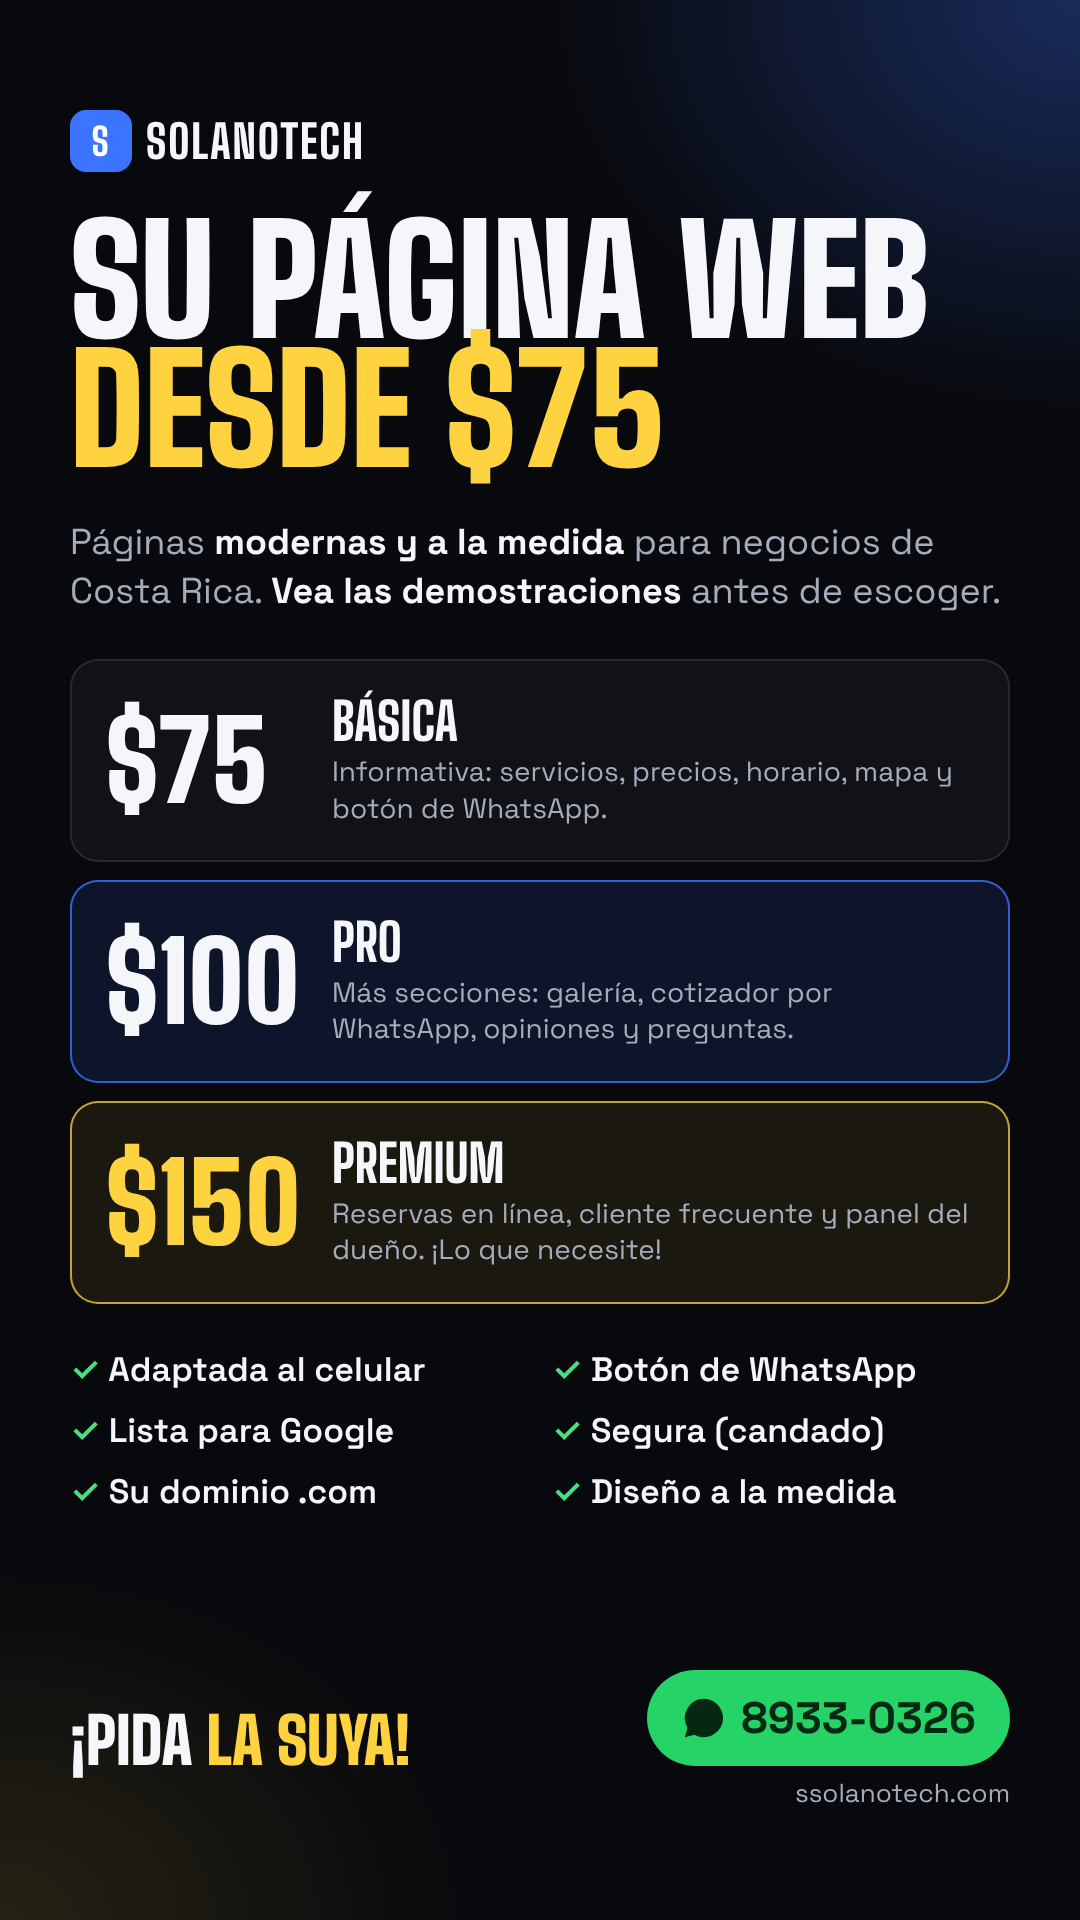
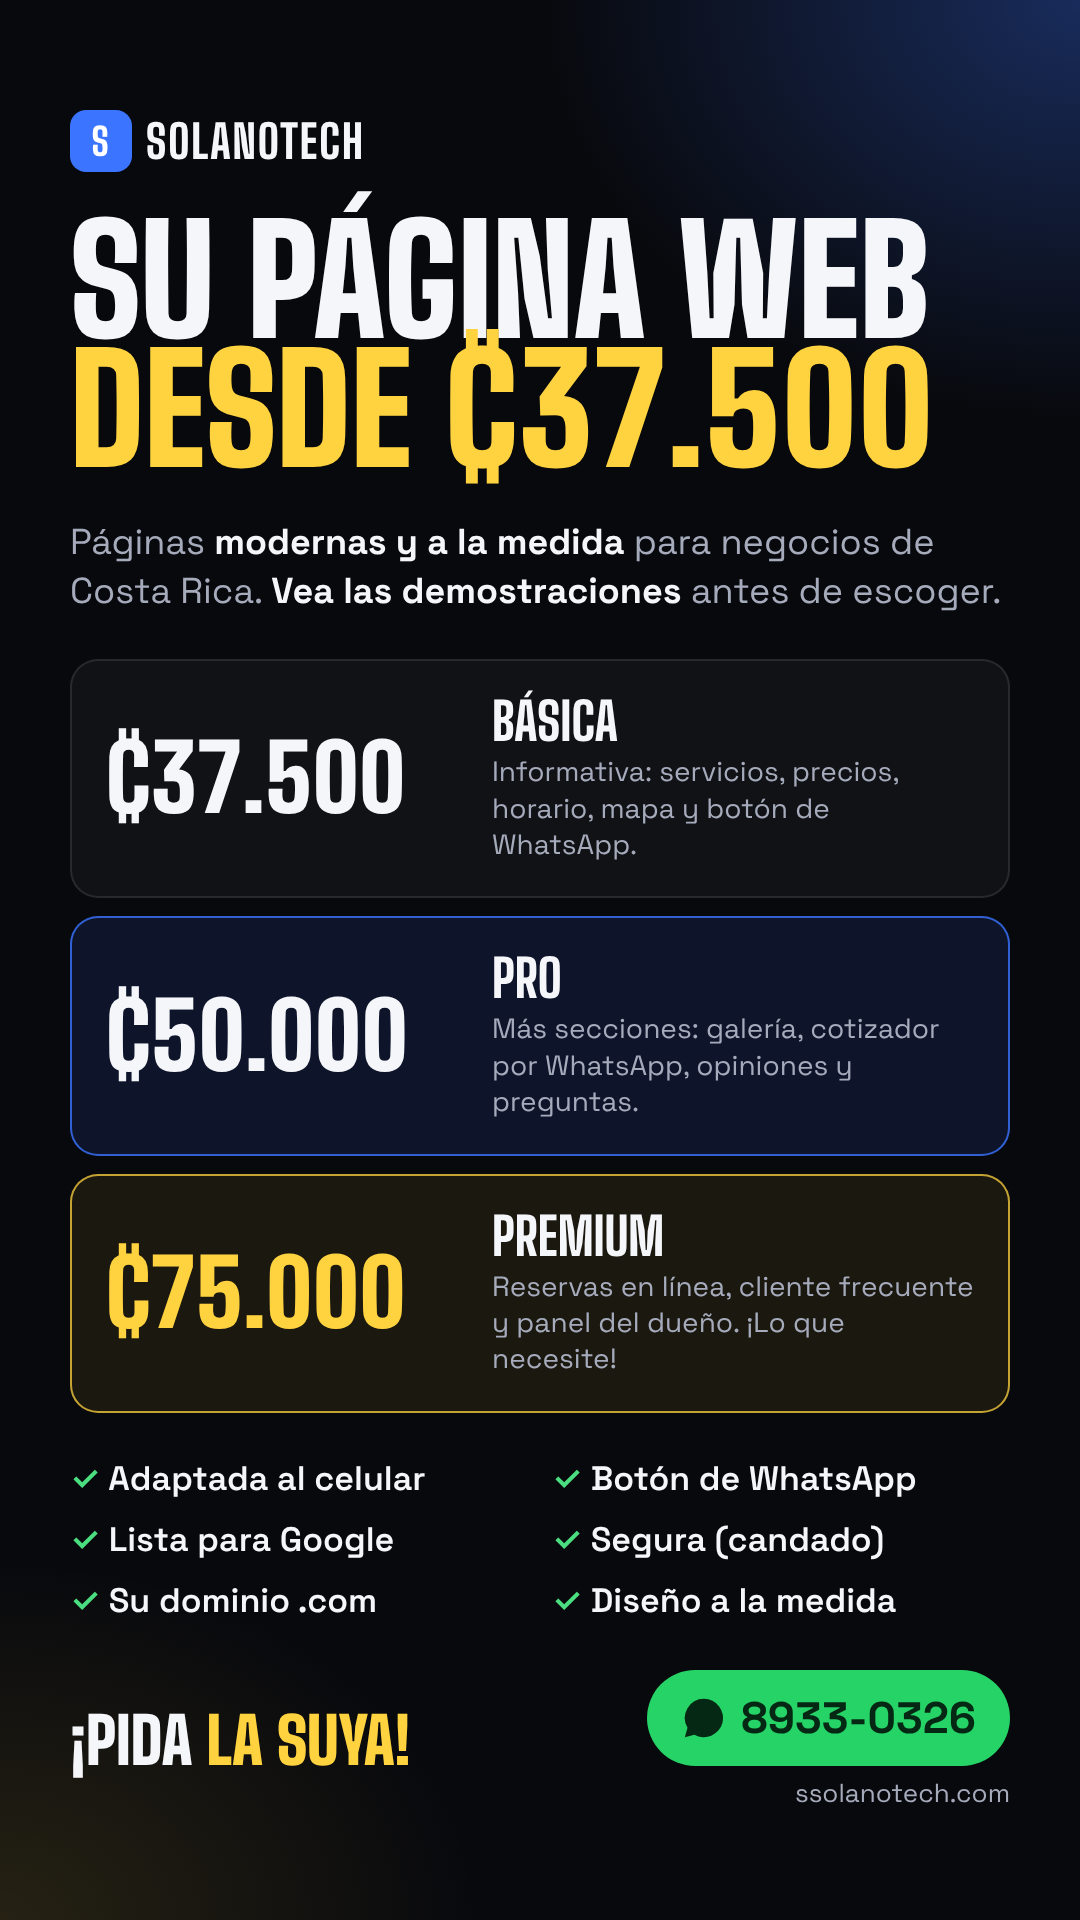
Solanotech planes: precios en colones (₡37.500, ₡50.000, ₡75.000)
Claude-Session: https://claude.ai/code/session_01XyaXnffiHNGSgLBRVYYTi9

Changed region(s): [[0.0611, 0.3438, 0.9472, 0.8438], [0.3972, 0.1562, 0.8861, 0.25]]

diff --git a/solanotech/planes/public/index.html b/solanotech/planes/public/index.html
@@ -4,9 +4,9 @@
 <meta charset="utf-8">
 <meta name="viewport" content="width=device-width, initial-scale=1">
 <title>Planes de páginas web · Solanotech</title>
-<meta name="description" content="Páginas web para negocios de Costa Rica desde $75: informativa, Pro y Premium con reservas en línea. Vea las demostraciones.">
-<meta property="og:title" content="Su página web desde $75 · Solanotech">
-<meta property="og:description" content="Informativa $75 · Pro $100 · Premium $150. Vea las demostraciones y pida la suya por WhatsApp.">
+<meta name="description" content="Páginas web para negocios de Costa Rica desde ₡37.500: informativa, Pro y Premium con reservas en línea. Vea las demostraciones.">
+<meta property="og:title" content="Su página web desde ₡37.500 · Solanotech">
+<meta property="og:description" content="Informativa ₡37.500 · Pro ₡50.000 · Premium ₡75.000. Vea las demostraciones y pida la suya por WhatsApp.">
 <link rel="preconnect" href="https://fonts.googleapis.com"><link rel="preconnect" href="https://fonts.gstatic.com" crossorigin>
 <link rel="stylesheet" href="https://fonts.googleapis.com/css2?family=Big+Shoulders+Display:wght@700;800;900&family=Space+Grotesk:wght@400;500;600;700&display=swap">
 <link rel="stylesheet" href="comun.css">
@@ -69,7 +69,7 @@ footer .wrap{display:flex;justify-content:space-between;gap:16px;flex-wrap:wrap;
 <section class="wrap planes" id="planes">
   <article class="plan">
     <h2>Básica</h2><p class="para">Para que lo encuentren y le escriban.</p>
-    <div class="precio"><b>$75</b><small>pago único</small></div>
+    <div class="precio"><b>₡37.500</b><small>pago único</small></div>
     <ul>
       <li>Página de una sola sección, informativa</li>
       <li>Su logo, colores, servicios y precios</li>
@@ -78,12 +78,12 @@ footer .wrap{display:flex;justify-content:space-between;gap:16px;flex-wrap:wrap;
       <li>Adaptada al celular</li>
       <li>Lista para aparecer en Google</li>
     </ul>
-    <div class="acc"><a class="btn btn-a" href="demo-basica.html">👀 Ver demostración</a><a class="btn btn-b" href="https://wa.me/50689330326?text=Hola%20Solanotech%2C%20me%20interesa%20la%20p%C3%A1gina%20B%C3%A1sica%20de%20%2475" target="_blank" rel="noopener">Pedir la Básica</a></div>
+    <div class="acc"><a class="btn btn-a" href="demo-basica.html">👀 Ver demostración</a><a class="btn btn-b" href="https://wa.me/50689330326?text=Hola%20Solanotech%2C%20me%20interesa%20la%20p%C3%A1gina%20B%C3%A1sica%20de%20%E2%82%A137.500" target="_blank" rel="noopener">Pedir la Básica</a></div>
   </article>
   <article class="plan dest">
     <span class="etq">La más pedida</span>
     <h2>Pro</h2><p class="para">Más secciones, más botones y más ventas.</p>
-    <div class="precio"><b>$100</b><small>pago único</small></div>
+    <div class="precio"><b>₡50.000</b><small>pago único</small></div>
     <ul>
       <li>Todo lo de la Básica</li>
       <li class="mas">Varias secciones: servicios, trabajos, opiniones, preguntas</li>
@@ -93,12 +93,12 @@ footer .wrap{display:flex;justify-content:space-between;gap:16px;flex-wrap:wrap;
       <li class="mas">Animaciones y diseño más trabajado</li>
       <li class="mas">QR para reseñas de Google</li>
     </ul>
-    <div class="acc"><a class="btn btn-a" href="demo-pro.html">👀 Ver demostración</a><a class="btn btn-b" href="https://wa.me/50689330326?text=Hola%20Solanotech%2C%20me%20interesa%20la%20p%C3%A1gina%20Pro%20de%20%24100" target="_blank" rel="noopener">Pedir la Pro</a></div>
+    <div class="acc"><a class="btn btn-a" href="demo-pro.html">👀 Ver demostración</a><a class="btn btn-b" href="https://wa.me/50689330326?text=Hola%20Solanotech%2C%20me%20interesa%20la%20p%C3%A1gina%20Pro%20de%20%E2%82%A150.000" target="_blank" rel="noopener">Pedir la Pro</a></div>
   </article>
   <article class="plan prem">
     <span class="etq">Premium</span>
     <h2>Premium</h2><p class="para">Su negocio funcionando solo en internet.</p>
-    <div class="precio"><b>$150</b><small>pago único</small></div>
+    <div class="precio"><b>₡75.000</b><small>pago único</small></div>
     <ul>
       <li>Todo lo de la Pro</li>
       <li class="mas">Reservas en línea con horario real</li>
@@ -107,7 +107,7 @@ footer .wrap{display:flex;justify-content:space-between;gap:16px;flex-wrap:wrap;
       <li class="mas">Recordatorios de citas</li>
       <li class="mas">Lo que su negocio necesite: si se puede programar, se hace</li>
     </ul>
-    <div class="acc"><a class="btn btn-a" href="demo-premium.html">👀 Ver demostración</a><a class="btn btn-b" href="https://wa.me/50689330326?text=Hola%20Solanotech%2C%20me%20interesa%20la%20p%C3%A1gina%20Premium%20de%20%24150" target="_blank" rel="noopener">Pedir la Premium</a></div>
+    <div class="acc"><a class="btn btn-a" href="demo-premium.html">👀 Ver demostración</a><a class="btn btn-b" href="https://wa.me/50689330326?text=Hola%20Solanotech%2C%20me%20interesa%20la%20p%C3%A1gina%20Premium%20de%20%E2%82%A175.000" target="_blank" rel="noopener">Pedir la Premium</a></div>
   </article>
 </section>
 
@@ -132,7 +132,7 @@ footer .wrap{display:flex;justify-content:space-between;gap:16px;flex-wrap:wrap;
 <section class="wrap">
   <h2 class="notas-t">Bueno saber</h2>
   <div class="notas">
-    <div><b>🌐 Su propio dominio</b><p>Su página puede quedar en <strong>sunegocio.com</strong>. El dominio se paga aparte, cuesta unos $10–15 al año y le ayudamos a comprarlo y conectarlo.</p></div>
+    <div><b>🌐 Su propio dominio</b><p>Su página puede quedar en <strong>sunegocio.com</strong>. El dominio se paga aparte, cuesta unos ₡5.000 a ₡7.500 al año y le ayudamos a comprarlo y conectarlo.</p></div>
     <div><b>🔍 Aparecer en Google</b><p>La dejamos lista para Google y le ayudamos con su perfil de Google Maps para que lo encuentren cerca.</p></div>
     <div><b>🔒 Segura y rápida</b><p>Conexión segura (candado), protección contra ataques y carga rápida en el celular.</p></div>
   </div>

diff --git a/solanotech/promos/planes/promo-planes.html b/solanotech/promos/planes/promo-planes.html
@@ -11,10 +11,10 @@ h1{font-family:var(--t);font-weight:900;text-transform:uppercase;font-size:118px
 h1 span{color:var(--am)}
 .sub{font-size:31px;color:var(--gr);line-height:1.35}.sub b{color:var(--bl)}
 .planes{display:grid;gap:18px}
-.pl{display:grid;grid-template-columns:200px 1fr;align-items:center;gap:26px;padding:24px 30px;border-radius:28px;background:rgba(255,255,255,.04);border:2px solid rgba(255,255,255,.1)}
+.pl{display:grid;grid-template-columns:330px 1fr;align-items:center;gap:26px;padding:24px 30px;border-radius:28px;background:rgba(255,255,255,.04);border:2px solid rgba(255,255,255,.1)}
 .pl.pro{border-color:rgba(59,116,255,.8);background:rgba(59,116,255,.12)}
 .pl.pre{border-color:rgba(255,210,63,.75);background:rgba(255,210,63,.08)}
-.pl b{font-family:var(--t);font-weight:900;font-size:96px;line-height:.9}
+.pl b{font-family:var(--t);font-weight:900;font-size:84px;white-space:nowrap;line-height:.9}
 .pl.pre b{color:var(--am)}
 .pl h2{font-family:var(--t);font-weight:800;text-transform:uppercase;font-size:44px;line-height:1}
 .pl p{color:var(--gr);font-size:24px;margin-top:6px;line-height:1.3}
@@ -27,16 +27,16 @@ body.historia h1{font-size:150px}body.historia .pl{padding:34px 34px}body.histor
 .extra{display:none}
 body.historia .extra{display:grid;grid-template-columns:1fr 1fr;gap:18px 24px;font-size:34px;font-weight:600}
 body.historia .extra div::first-letter{color:#4ADE80}
-body.historia .pl b{font-size:110px}body.historia .pl h2{font-size:52px}body.historia .pl p{font-size:28px}
+body.historia .pl b{font-size:92px}body.historia .pl{grid-template-columns:360px 1fr}body.historia .pl h2{font-size:52px}body.historia .pl p{font-size:28px}
 </style></head>
 <body>
 <div class="logo"><i>S</i>SOLANOTECH</div>
-<h1>Su página web <span>desde $75</span></h1>
+<h1>Su página web <span>desde ₡37.500</span></h1>
 <p class="sub">Páginas <b>modernas y a la medida</b> para negocios de Costa Rica. <b>Vea las demostraciones</b> antes de escoger.</p>
 <div class="planes">
-  <div class="pl"><b>$75</b><div><h2>Básica</h2><p>Informativa: servicios, precios, horario, mapa y botón de WhatsApp.</p></div></div>
-  <div class="pl pro"><b>$100</b><div><h2>Pro</h2><p>Más secciones: galería, cotizador por WhatsApp, opiniones y preguntas.</p></div></div>
-  <div class="pl pre"><b>$150</b><div><h2>Premium</h2><p>Reservas en línea, cliente frecuente y panel del dueño. ¡Lo que necesite!</p></div></div>
+  <div class="pl"><b>₡37.500</b><div><h2>Básica</h2><p>Informativa: servicios, precios, horario, mapa y botón de WhatsApp.</p></div></div>
+  <div class="pl pro"><b>₡50.000</b><div><h2>Pro</h2><p>Más secciones: galería, cotizador por WhatsApp, opiniones y preguntas.</p></div></div>
+  <div class="pl pre"><b>₡75.000</b><div><h2>Premium</h2><p>Reservas en línea, cliente frecuente y panel del dueño. ¡Lo que necesite!</p></div></div>
 </div>
 <div class="extra"><div>✓ Adaptada al celular</div><div>✓ Botón de WhatsApp</div><div>✓ Lista para Google</div><div>✓ Segura (candado)</div><div>✓ Su dominio .com</div><div>✓ Diseño a la medida</div></div>
 <div class="pie"><div class="pida">¡Pida <span>la suya!</span></div><div><div class="wa"><svg viewBox="0 0 24 24" fill="#052814"><path d="M12 2a10 10 0 0 0-8.6 15.1L2 22l5-1.3A10 10 0 1 0 12 2Zm4.5 12.1c-.2-.1-1.5-.7-1.7-.8-.2-.1-.4-.1-.6.1l-.8 1c-.1.2-.3.2-.5.1a6.7 6.7 0 0 1-3.3-2.9c-.3-.4.3-.4.7-1.4.1-.2 0-.3 0-.4l-.8-1.8c-.2-.5-.4-.4-.6-.4h-.5a1 1 0 0 0-.7.3 3 3 0 0 0-.9 2.2 5.2 5.2 0 0 0 1.1 2.7 11.8 11.8 0 0 0 4.5 4c1.7.7 2.3.8 3.2.6a2.7 2.7 0 0 0 1.8-1.2c.2-.6.2-1 .1-1.2z"/></svg>8933-0326</div><div class="web">ssolanotech.com</div></div></div>

diff --git a/solanotech/planes/public/demo-pro.html b/solanotech/planes/public/demo-pro.html
@@ -74,7 +74,7 @@ footer{border-top:1px solid var(--linea);padding:26px 0 90px;color:var(--gr);fon
 </style>
 </head>
 <body>
-<div class="cinta"><div class="wrap"><a class="logo-s" href="index.html"><i>S</i>SOLANOTECH</a><span class="txt">Demostración del <b>Plan Pro · $100</b> · negocio de ejemplo</span><a href="index.html">Ver planes</a></div></div>
+<div class="cinta"><div class="wrap"><a class="logo-s" href="index.html"><i>S</i>SOLANOTECH</a><span class="txt">Demostración del <b>Plan Pro · ₡50.000</b> · negocio de ejemplo</span><a href="index.html">Ver planes</a></div></div>
 <nav><div class="wrap"><a class="marca" href="#">Motor<span>Pro</span></a><div class="links"><a href="#servicios">Servicios</a><a href="#cotizar">Cotizar</a><a href="#trabajos">Trabajos</a><a href="#opiniones">Opiniones</a><a href="#preguntas">Preguntas</a></div><a class="btn btn-wa" href="https://wa.me/50689330326?text=Hola%2C%20vi%20la%20demo%20Pro%20(taller)%20y%20quiero%20una%20as%C3%AD" target="_blank" rel="noopener">WhatsApp</a></div></nav>
 
 <div class="wrap">
@@ -146,7 +146,7 @@ footer{border-top:1px solid var(--linea);padding:26px 0 90px;color:var(--gr);fon
   </section>
 </div>
 <div class="visor" id="visor" role="dialog" aria-label="Foto ampliada"><div><div id="visorIco"></div><p id="visorTxt"></p></div></div>
-<footer>Motor Pro es un negocio de ejemplo · Página hecha por <b>Solanotech</b> · Plan Pro $100</footer>
+<footer>Motor Pro es un negocio de ejemplo · Página hecha por <b>Solanotech</b> · Plan Pro ₡50.000</footer>
 <a class="flota" href="https://wa.me/50689330326?text=Hola%2C%20vi%20la%20demo%20Pro%20y%20quiero%20una%20p%C3%A1gina%20as%C3%AD" target="_blank" rel="noopener" aria-label="WhatsApp"><svg viewBox="0 0 24 24" fill="#fff"><path d="M12 2a10 10 0 0 0-8.6 15.1L2 22l5-1.3A10 10 0 1 0 12 2Zm4.5 12.1c-.2-.1-1.5-.7-1.7-.8-.2-.1-.4-.1-.6.1l-.8 1c-.1.2-.3.2-.5.1a6.7 6.7 0 0 1-3.3-2.9c-.3-.4.3-.4.7-1.4.1-.2 0-.3 0-.4l-.8-1.8c-.2-.5-.4-.4-.6-.4h-.5a1 1 0 0 0-.7.3 3 3 0 0 0-.9 2.2 5.2 5.2 0 0 0 1.1 2.7 11.8 11.8 0 0 0 4.5 4c1.7.7 2.3.8 3.2.6a2.7 2.7 0 0 0 1.8-1.2c.2-.6.2-1 .1-1.2z"/></svg></a>
 <script>
 (function(){

diff --git a/solanotech/planes/public/demo-basica.html b/solanotech/planes/public/demo-basica.html
@@ -45,7 +45,7 @@ footer{border-top:1px solid rgba(255,255,255,.08);padding:26px 0 90px;color:var(
 </style>
 </head>
 <body>
-<div class="cinta"><div class="wrap"><a class="logo-s" href="index.html"><i>S</i>SOLANOTECH</a><span class="txt">Demostración del <b>Plan Básico · $75</b> · negocio de ejemplo</span><a href="index.html">Ver planes</a></div></div>
+<div class="cinta"><div class="wrap"><a class="logo-s" href="index.html"><i>S</i>SOLANOTECH</a><span class="txt">Demostración del <b>Plan Básico · ₡37.500</b> · negocio de ejemplo</span><a href="index.html">Ver planes</a></div></div>
 
 <div class="wrap">
   <div class="top"><a class="marca" href="#"><svg viewBox="0 0 48 48" fill="none" stroke="#D9A84E" stroke-width="3" stroke-linecap="round"><circle cx="13" cy="35" r="6"/><circle cx="35" cy="35" r="6"/><path d="M17 31 38 8M31 31 10 8"/></svg>Corte &amp; Estilo</a><a class="llamar" href="tel:+50689330326">📞 Llamar</a></div>
@@ -77,7 +77,7 @@ footer{border-top:1px solid rgba(255,255,255,.08);padding:26px 0 90px;color:var(
   </section>
 </div>
 
-<footer>Corte &amp; Estilo es un negocio de ejemplo · Página hecha por <b>Solanotech</b> · Plan Básico $75</footer>
+<footer>Corte &amp; Estilo es un negocio de ejemplo · Página hecha por <b>Solanotech</b> · Plan Básico ₡37.500</footer>
 <a class="flota" href="https://wa.me/50689330326?text=Hola%2C%20vi%20la%20demo%20B%C3%A1sica%20y%20quiero%20una%20p%C3%A1gina%20as%C3%AD" target="_blank" rel="noopener" aria-label="WhatsApp"><svg viewBox="0 0 24 24" fill="#fff"><path d="M12 2a10 10 0 0 0-8.6 15.1L2 22l5-1.3A10 10 0 1 0 12 2Zm4.5 12.1c-.2-.1-1.5-.7-1.7-.8-.2-.1-.4-.1-.6.1l-.8 1c-.1.2-.3.2-.5.1a6.7 6.7 0 0 1-3.3-2.9c-.3-.4.3-.4.7-1.4.1-.2 0-.3 0-.4l-.8-1.8c-.2-.5-.4-.4-.6-.4h-.5a1 1 0 0 0-.7.3 3 3 0 0 0-.9 2.2 5.2 5.2 0 0 0 1.1 2.7 11.8 11.8 0 0 0 4.5 4c1.7.7 2.3.8 3.2.6a2.7 2.7 0 0 0 1.8-1.2c.2-.6.2-1 .1-1.2z"/></svg></a>
 </body>
 </html>

diff --git a/solanotech/planes/public/demo-premium.html b/solanotech/planes/public/demo-premium.html
@@ -59,7 +59,7 @@ footer{border-top:1px solid var(--linea);padding:26px 0 40px;color:var(--gr);fon
 </style>
 </head>
 <body>
-<div class="cinta"><div class="wrap"><a class="logo-s" href="index.html"><i>S</i>SOLANOTECH</a><span class="txt">Demostración del <b>Plan Premium · $150</b> · negocio de ejemplo</span><a href="index.html">Ver planes</a></div></div>
+<div class="cinta"><div class="wrap"><a class="logo-s" href="index.html"><i>S</i>SOLANOTECH</a><span class="txt">Demostración del <b>Plan Premium · ₡75.000</b> · negocio de ejemplo</span><a href="index.html">Ver planes</a></div></div>
 <div class="wrap">
   <section class="hero"><div class="marca">Bella Studio</div><h1>Reserve su cita <span>en 1 minuto</span></h1><p>Uñas, cabello y cejas en Cartago. Escoja el servicio, el día y la hora.</p></section>
   <p class="demo">🧪 <b>Pruébelo:</b> reserve una cita, vea cómo le llega a la tarjeta del cliente y cómo la ve el dueño en su panel. En esta demostración todo se guarda solo en su celular.</p>
@@ -90,7 +90,7 @@ footer{border-top:1px solid var(--linea);padding:26px 0 40px;color:var(--gr);fon
   <a class="btn btn-wa" style="max-width:720px;margin:0 auto 30px" href="https://wa.me/50689330326?text=Hola%2C%20vi%20la%20demo%20Premium%20(reservas)%20y%20quiero%20algo%20as%C3%AD%20para%20mi%20negocio" target="_blank" rel="noopener">💬 Quiero esto para mi negocio</a>
 </div>
 <div class="toast" id="toast"></div>
-<footer>Bella Studio es un negocio de ejemplo · Sistema hecho por <b>Solanotech</b> · Plan Premium $150</footer>
+<footer>Bella Studio es un negocio de ejemplo · Sistema hecho por <b>Solanotech</b> · Plan Premium ₡75.000</footer>
 <script>
 (function(){
   var d=document, $=function(i){ return d.getElementById(i) }, col=function(n){ return '₡'+String(Math.round(n)).replace(/\B(?=(\d{3})+(?!\d))/g,'.') }, K='bella-demo-v1';
